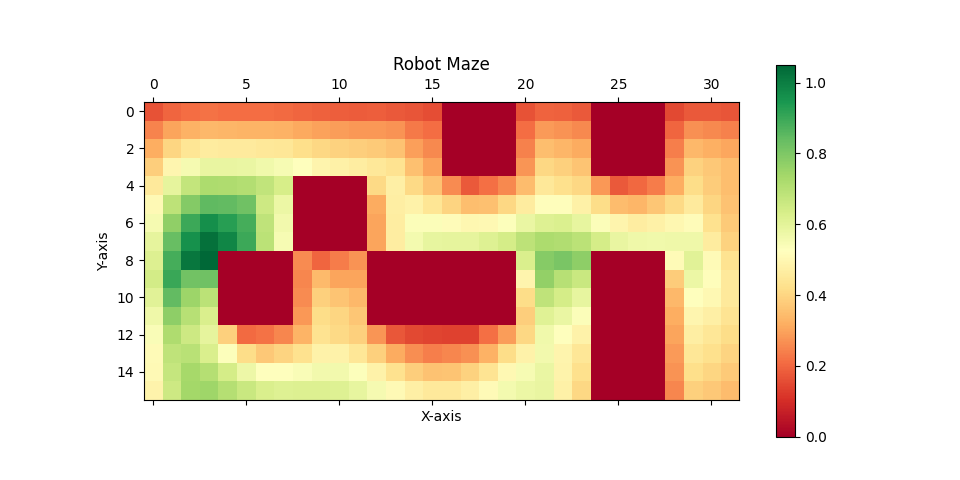
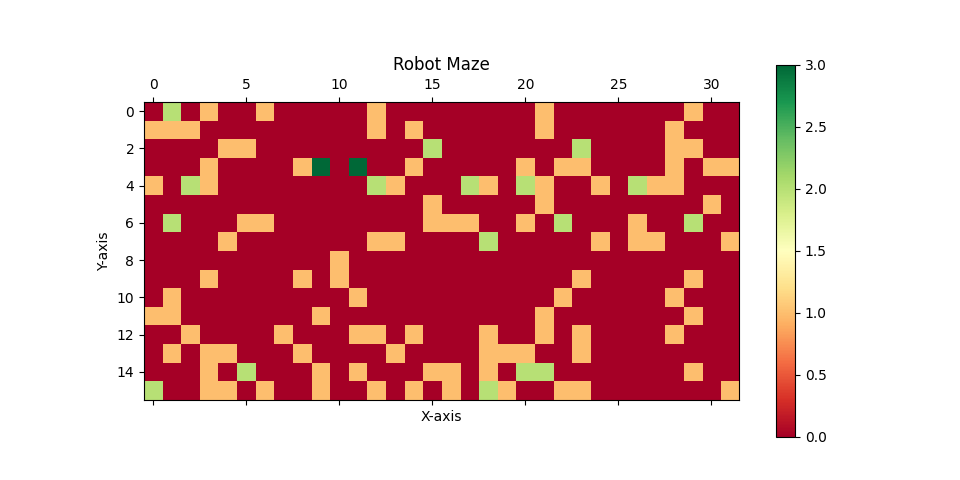
num particles per square are showing

diff --git a/scripts/particle_filter.py b/scripts/particle_filter.py
@@ -188,22 +188,25 @@ class HistMap:
         self.probabilities = self.init_probabilities()  # set initial probablities
         self.particle_placements = {}
         self.particle_readings = {}
+        self.particle_place_count = {}
         self.isinit = True
         self.MAP = np.array(MAP)
         self.PROB_MAP = np.array(PROB_MAP)
         self.COLS = len(self.MAP[0])
         self.ROWS = len(self.MAP)
         self.PARTICLE_MAP = np.zeros((self.ROWS, self.COLS)) 
-        self.num_particles = 120
+        self.num_particles = 119
         self.kernel = [[0.2 , 0.25, 0.2 ],
                        [0.2 , 1   , 0.25],
                        [0.25, 0   , 0.25]]
         self.threshold = 0.95
     
     
+    
     def add_rover(self, rover):
         """ add an instance of the rover into the code """
         self.rover = rover
+        
         
         
     def normalize_probmap(self, particle=0):
@@ -220,6 +223,7 @@ class HistMap:
         # self.PROB_MAP[self.PROB_MAP != 0] = (self.PROB_MAP - probmin) / (probmax - probmin)
     
     
+    
     def init_probabilities(self):
         """ 
         At the end of this function the probability of the robot being in any square is uniform
@@ -231,11 +235,7 @@ class HistMap:
                     PROB_MAP[PROB_MAP.index(row)][row.index(element)] = round(element/self.map_openings, 8)
 
         return PROB_MAP
-        # sample the measurements for each particle
-        # copmare measurements with the actual measurements
-        # update probabilities
-        # propagate particles
-        # repeat
+    
     
     
     def place_init_particles(self):
@@ -254,6 +254,7 @@ class HistMap:
                         for i in range(math.floor(prob)):
                             self.particle_placements[r, j] = self.PROB_MAP[r][j]
                         
+       
                             
     def place_rand_particles(self):
         """ 
@@ -262,25 +263,38 @@ class HistMap:
         # self.particle_placements = {}
         while len(self.particle_placements) <= self.num_particles:
             coor = [np.random.randint(0, self.ROWS), np.random.randint(0, self.COLS)]
-            while self.PROB_MAP[coor[0]][coor[1]] == 0:
+            while self.MAP[coor[0]][coor[1]] == 0:
                 coor = [np.random.randint(0, self.ROWS), np.random.randint(0, self.COLS)]
+            
+            print(f"self.particle_place_count: {self.particle_place_count}")
+            print(f"len(self.particle_place_count): {len(self.particle_place_count)}")
+            
+            if (coor[0], coor[1]) not in self.particle_place_count:
+                self.particle_place_count[coor[0], coor[1]] = 1
+            elif (coor[0], coor[1]) in self.particle_place_count:
+                self.particle_place_count[coor[0], coor[1]] += 1
 
             self.particle_placements[coor[0], coor[1]] = self.PROB_MAP[coor[0]][coor[1]] + 0.50
             
+    
     
     def particle_thresholding(self):
         """ decides the threshold for each particle and removes them """
         temp_dict_placements = copy.deepcopy(self.particle_placements)
         temp_dict_readings = copy.deepcopy(self.particle_readings)        
+        temp_particle_place_count = copy.deepcopy(self.particle_place_count)        
         for k, v in self.particle_placements.items():
             if v < self.threshold:
                 temp_dict_placements.pop(k)
                 temp_dict_readings.pop(k)
+                try: temp_particle_place_count.pop(k)
+                except: pass
                 
-                
+        self.particle_place_count = temp_particle_place_count
         self.particle_readings = temp_dict_readings
         self.particle_placements = temp_dict_placements
         
+         
            
     def measure_particles(self):
         """
@@ -348,6 +362,7 @@ class HistMap:
         # print(f'The rover readings are {np.array(self.rover.readings)/CONSTANT}')
         
         
+        
     def update_prob_map(self):
         """ takes the virtual particle readings and probabilities and updates probabilities"""
         for k, v in self.particle_readings.items():
@@ -382,6 +397,7 @@ class HistMap:
             
             try: self.PROB_MAP[k[0]][k[1]] += self.PROB_MAP[k[0] + 1][k[1] + 2] * self.kernel[2][2]
             except: pass
+          
             
         
     def update_particle_map(self):
@@ -389,15 +405,14 @@ class HistMap:
         set a threshold for how many particles they have there 
         """
         self.PARTICLE_MAP = np.zeros((self.ROWS, self.COLS))
-        for k, v in self.particle_readings.items():
-            similarity = cosine_distance(np.array(v), np.array(self.rover.readings))
-            if float(similarity) > self.threshold:
-                self.PARTICLE_MAP[k[0]][k[1]] += 1
-                
+        for k, v in self.particle_place_count.items():
+            # print(f"this is how many particle readings there are in update particle map {len(self.particle_readings)}")
+            # similarity = cosine_distance(np.array(v), np.array(self.rover.readings))
+            self.PARTICLE_MAP[k[0]][k[1]] = v
+            # if float(similarity) > self.threshold:
+            #     self.PARTICLE_MAP[k[0]][k[1]] += 1    
             
             
-            
-   
     
     def plot_probs(self, use_particle_map=False):
         """ 
@@ -419,7 +434,6 @@ class HistMap:
         plt.savefig("picture.png")
 
         
-
                 
 if __name__ == '__main__':
     hist = HistMap()
@@ -433,9 +447,10 @@ if __name__ == '__main__':
 
     while True:
         start = time.time()
-        print(f"particle placements: {len(hist.particle_placements)} particle readings: {len(hist.particle_readings)}")
+        # print(f"particle placements: {len(hist.particle_placements)} particle readings: {len(hist.particle_readings)}")
         rover.update_directions()
         hist.update_particle_map()
+        # print(hist.PARTICLE_MAP)
         # hist.update_prob_map()
         # hist.normalize_probmap(use_particle_map)
         hist.place_rand_particles()
@@ -445,5 +460,5 @@ if __name__ == '__main__':
         
         # time.sleep(0.2)
         end = time.time()
-        print(f"total time: {end-start}s")    
+        print(f"time step: {end-start}s")    
     
